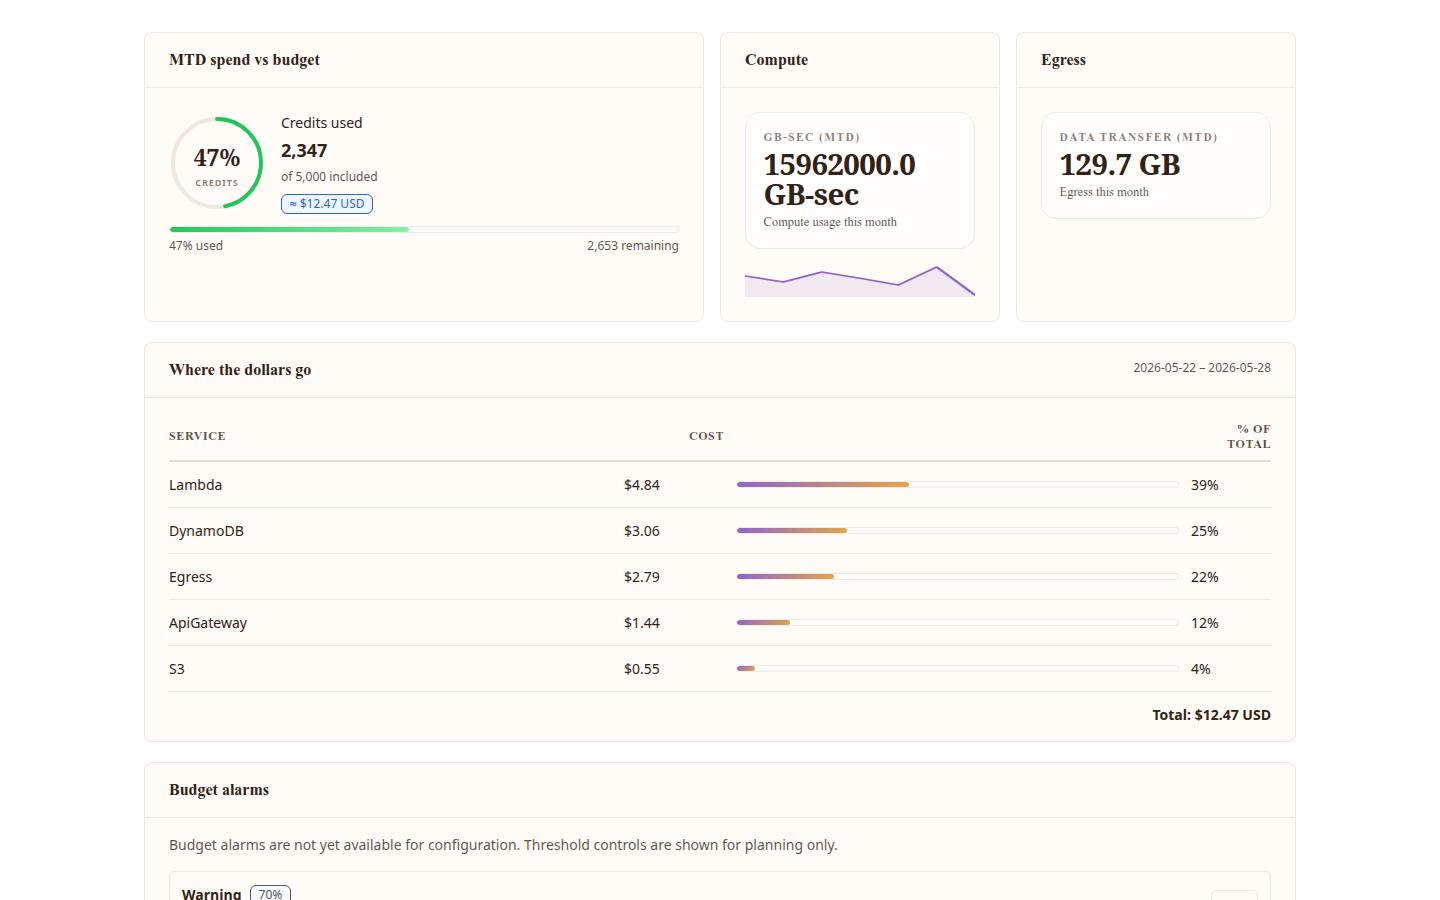
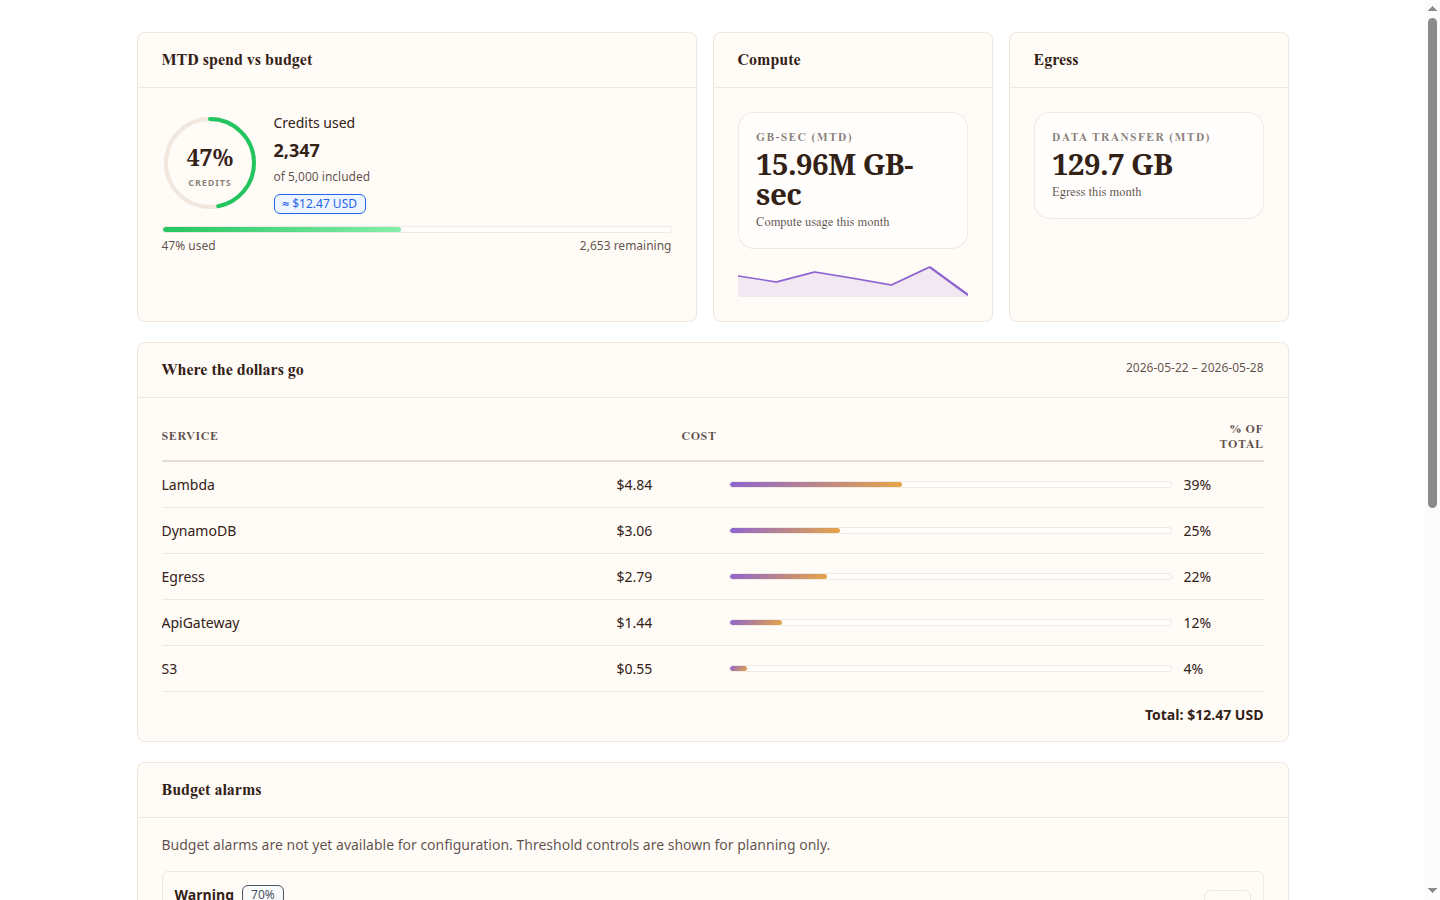
fix(portal): M8 — humanize compute GB-sec display with compact abbreviations
Replace `n.toFixed(1)` in formatUnit with human-readable abbreviations:
- >= 1M → "X.XXM GB-sec" (e.g. "15.96M GB-sec")
- >= 1K → "X.XK GB-sec"
- <  1K → "X.X GB-sec" (unchanged)

Avoids trailing ".0" and huge ungrouped raw numbers like "15962000.0 GB-sec".
Recaptured cost-usage.png evidence at 1440×900.

diff --git a/web/src/pages/portal/InstanceCost.svelte b/web/src/pages/portal/InstanceCost.svelte
@@ -76,10 +76,13 @@ Source: Issue equaltoai/lesser-host#542
 	}
 
 	/**
-	 * Format GB-sec or GB value with one decimal place.
+	 * Format GB-sec or GB value with human-readable abbreviation for
+	 * large numbers (e.g. "1.85M GB-sec" rather than "15962000.0 GB-sec").
 	 */
 	function formatUnit(n: number, unit: string): string {
 		if (!Number.isFinite(n)) return '—';
+		if (n >= 1_000_000) return `${(n / 1_000_000).toFixed(2)}M ${unit}`;
+		if (n >= 1_000) return `${(n / 1_000).toFixed(1)}K ${unit}`;
 		return `${n.toFixed(1)} ${unit}`;
 	}
 
